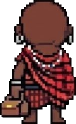
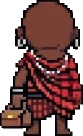
大人の高さを新基準（キングの約1.1倍）にそろえる（タスク031）
- 入国審査・タクシー乗り場: 大人はキング124pxの1.1倍＝136px（縮め直した w- の絵）
- 窓口の係官: 同じ136pxに縮め、頭から胸までを窓口の台で切る（高さ395〜488）
- ドーハのホテルのフロント係: キング248pxの1.1倍＝273px（拡大。素材が小さめなので少しやわらかくなる）
- キングとルルの並びはルールどおり（ルルが左・キングが右）。v4は配置の見本

Claude-Session: https://claude.ai/code/session_01J6wdniwdNy1cYyepf11SWa

diff --git a/tour/doha/index.html b/tour/doha/index.html
@@ -3675,10 +3675,10 @@ var ART={
  hotel:{bg:'hotel-front.png',mode:'room',base:895,lulu:250,king:450,suit:560,npc:{x:1290,px:15,top:262,clip:412},fx:'hotel',npcS:{c_front:'o-front-woman-blonde-suit'}},
  /* 入国審査(タスク031): 人なしの背景。キングとルルは右の端から歩いて入り、いちばん右の列(Visitors)のおわりに立つ(dir:-1 = 左へ歩く)。ルルが左・キングが右 */
  immig:{bg:'nairobi-immigration.png',mode:'wide',base:690,dir:-1,lulu:1290,king:1360,suit:1250,
-  /* 窓口の係官(頭と肩だけ。大きさは素材のまま)。lead=話し相手の係官の窓口。sw=話し相手が officer2(女性)のとき入れ替わる絵 */
-  booths:[{n:'o-front-officer-green-1',x:215,top:345,clip:488},{n:'o-front-officer-blue',x:585,top:345,clip:488,sw:'o-front-officer-green-1'},
-   {n:'o-front-officer-green-2',x:951,top:345,clip:488},{n:'o-front-officer-green-passport',x:1319,top:345,clip:488,lead:1,sw:'o-front-officer-blue'}],
-  /* 並ぶ人(後ろ姿)と歩く人(正面)。x=足もとの中心、by=足もとの高さ。高さはキングと同じ124px(素材を124pxに縮めた w- の絵)。奥の人から順に描く */
+  /* 窓口の係官(頭と肩だけ。大人の高さ136pxに縮めた絵)。lead=話し相手の係官の窓口。sw=話し相手が officer2(女性)のとき入れ替わる絵 */
+  booths:[{n:'o-front-officer-green-1',x:215,top:395,clip:488},{n:'o-front-officer-blue',x:585,top:395,clip:488,sw:'o-front-officer-green-1'},
+   {n:'o-front-officer-green-2',x:951,top:395,clip:488},{n:'o-front-officer-green-passport',x:1319,top:395,clip:488,lead:1,sw:'o-front-officer-blue'}],
+  /* 並ぶ人(後ろ姿)と歩く人(正面)。x=足もとの中心、by=足もとの高さ。高さは大人=キングの約1.1倍(136px。素材を縮めた w- の絵)。奥の人から順に描く */
   crowd:[['back-family',217,686],['back-man-suit-1',215,789],['back-maasai',216,894],
    ['back-backpacker',585,684],['back-woman-hijab',585,788],['back-man-suit-2',584,892],
    ['back-man-thobe',952,684],['back-couple-red',952,786],['back-woman-blonde-suit',952,892],

diff --git a/tour/index.html b/tour/index.html
@@ -3802,10 +3802,10 @@ var ART={
  hotel:{bg:'hotel-front.png',mode:'room',base:895,lulu:250,king:450,suit:560,npc:{x:1290,px:15,top:262,clip:412},fx:'hotel',npcS:{c_front:'o-front-woman-blonde-suit'}},
  /* 入国審査(タスク031): 人なしの背景。キングとルルは右の端から歩いて入り、いちばん右の列(Visitors)のおわりに立つ(dir:-1 = 左へ歩く)。ルルが左・キングが右 */
  immig:{bg:'nairobi-immigration.png',mode:'wide',base:690,dir:-1,lulu:1290,king:1360,suit:1250,
-  /* 窓口の係官(頭と肩だけ。大きさは素材のまま)。lead=話し相手の係官の窓口。sw=話し相手が officer2(女性)のとき入れ替わる絵 */
-  booths:[{n:'o-front-officer-green-1',x:215,top:345,clip:488},{n:'o-front-officer-blue',x:585,top:345,clip:488,sw:'o-front-officer-green-1'},
-   {n:'o-front-officer-green-2',x:951,top:345,clip:488},{n:'o-front-officer-green-passport',x:1319,top:345,clip:488,lead:1,sw:'o-front-officer-blue'}],
-  /* 並ぶ人(後ろ姿)と歩く人(正面)。x=足もとの中心、by=足もとの高さ。高さはキングと同じ124px(素材を124pxに縮めた w- の絵)。奥の人から順に描く */
+  /* 窓口の係官(頭と肩だけ。大人の高さ136pxに縮めた絵)。lead=話し相手の係官の窓口。sw=話し相手が officer2(女性)のとき入れ替わる絵 */
+  booths:[{n:'o-front-officer-green-1',x:215,top:395,clip:488},{n:'o-front-officer-blue',x:585,top:395,clip:488,sw:'o-front-officer-green-1'},
+   {n:'o-front-officer-green-2',x:951,top:395,clip:488},{n:'o-front-officer-green-passport',x:1319,top:395,clip:488,lead:1,sw:'o-front-officer-blue'}],
+  /* 並ぶ人(後ろ姿)と歩く人(正面)。x=足もとの中心、by=足もとの高さ。高さは大人=キングの約1.1倍(136px。素材を縮めた w- の絵)。奥の人から順に描く */
   crowd:[['back-family',217,686],['back-man-suit-1',215,789],['back-maasai',216,894],
    ['back-backpacker',585,684],['back-woman-hijab',585,788],['back-man-suit-2',584,892],
    ['back-man-thobe',952,684],['back-couple-red',952,786],['back-woman-blonde-suit',952,892],

diff --git a/tour-src/art.js b/tour-src/art.js
@@ -15,10 +15,10 @@ var ART={
  hotel:{bg:'hotel-front.png',mode:'room',base:895,lulu:250,king:450,suit:560,npc:{x:1290,px:15,top:262,clip:412},fx:'hotel',npcS:{c_front:'o-front-woman-blonde-suit'}},
  /* 入国審査(タスク031): 人なしの背景。キングとルルは右の端から歩いて入り、いちばん右の列(Visitors)のおわりに立つ(dir:-1 = 左へ歩く)。ルルが左・キングが右 */
  immig:{bg:'nairobi-immigration.png',mode:'wide',base:690,dir:-1,lulu:1290,king:1360,suit:1250,
-  /* 窓口の係官(頭と肩だけ。大きさは素材のまま)。lead=話し相手の係官の窓口。sw=話し相手が officer2(女性)のとき入れ替わる絵 */
-  booths:[{n:'o-front-officer-green-1',x:215,top:345,clip:488},{n:'o-front-officer-blue',x:585,top:345,clip:488,sw:'o-front-officer-green-1'},
-   {n:'o-front-officer-green-2',x:951,top:345,clip:488},{n:'o-front-officer-green-passport',x:1319,top:345,clip:488,lead:1,sw:'o-front-officer-blue'}],
-  /* 並ぶ人(後ろ姿)と歩く人(正面)。x=足もとの中心、by=足もとの高さ。高さはキングと同じ124px(素材を124pxに縮めた w- の絵)。奥の人から順に描く */
+  /* 窓口の係官(頭と肩だけ。大人の高さ136pxに縮めた絵)。lead=話し相手の係官の窓口。sw=話し相手が officer2(女性)のとき入れ替わる絵 */
+  booths:[{n:'o-front-officer-green-1',x:215,top:395,clip:488},{n:'o-front-officer-blue',x:585,top:395,clip:488,sw:'o-front-officer-green-1'},
+   {n:'o-front-officer-green-2',x:951,top:395,clip:488},{n:'o-front-officer-green-passport',x:1319,top:395,clip:488,lead:1,sw:'o-front-officer-blue'}],
+  /* 並ぶ人(後ろ姿)と歩く人(正面)。x=足もとの中心、by=足もとの高さ。高さは大人=キングの約1.1倍(136px。素材を縮めた w- の絵)。奥の人から順に描く */
   crowd:[['back-family',217,686],['back-man-suit-1',215,789],['back-maasai',216,894],
    ['back-backpacker',585,684],['back-woman-hijab',585,788],['back-man-suit-2',584,892],
    ['back-man-thobe',952,684],['back-couple-red',952,786],['back-woman-blonde-suit',952,892],
